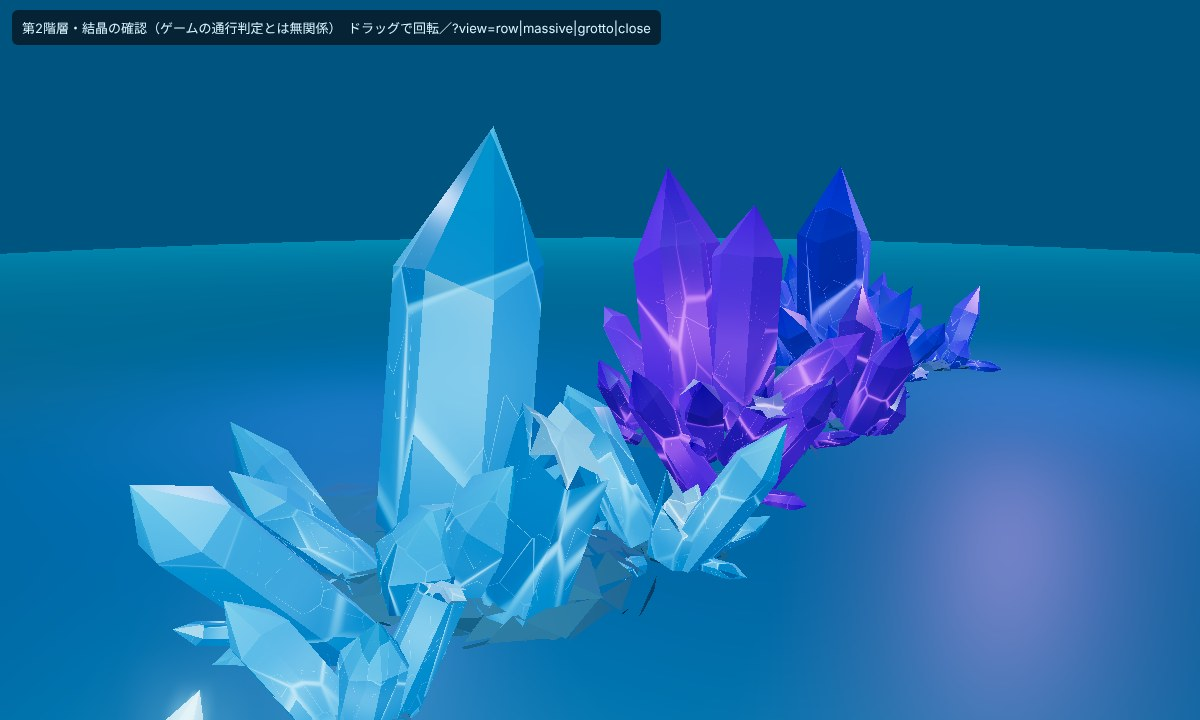
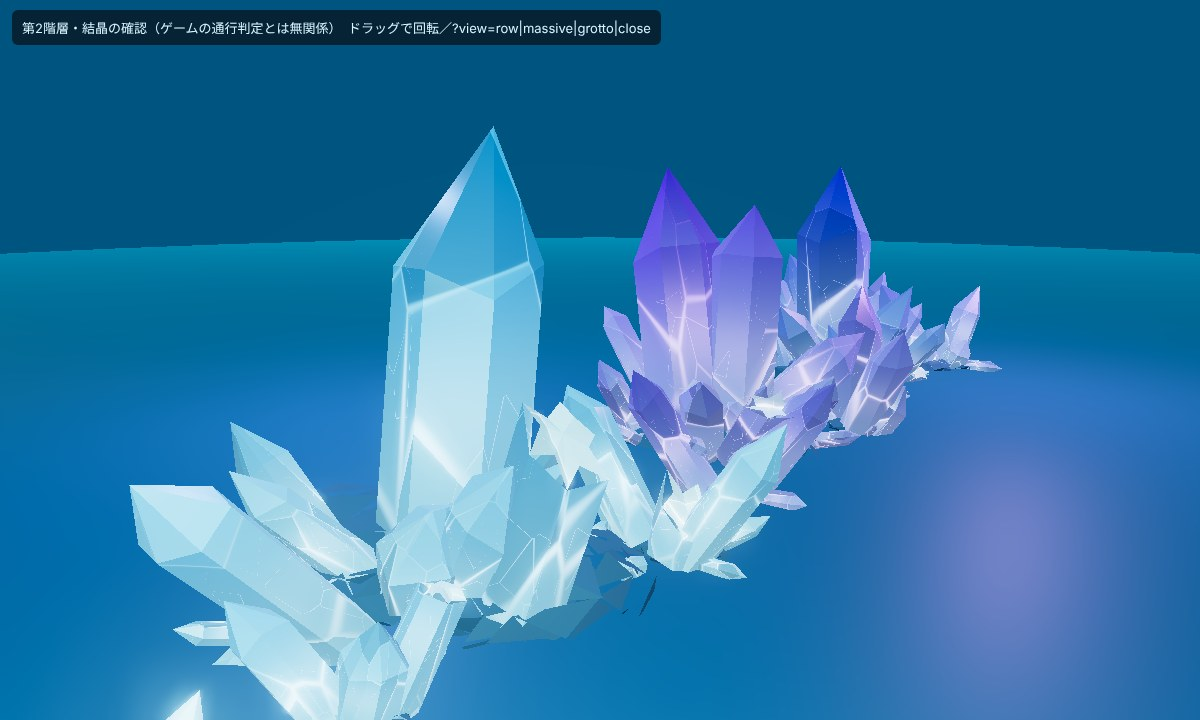
B2: 結晶の色味を選ばれた版（根元の乳白→先端の濃い色）に戻し、ひびは結晶自身の色で控えめに光る
Claude-Session: https://claude.ai/code/session_01B5gNCGmr7UqvVkWBnkLkde

Changed region(s): [[0.0925, 0.2139, 0.8325, 1.0]]

diff --git a/field/b2-crystals.js b/field/b2-crystals.js
@@ -87,15 +87,16 @@ function quartzPoint(T, r, seed, kind, twin) {
 }
 
 // 頂点の色：根元（y の低い所）は乳白、高い所ほど先端の色。割れ口は白寄り、芯は暗めの先端色
-// 頂点の色：塊全体を濃い body 色で塗り、結晶の先端（結晶ごとの高さの上2割）だけ tip 色へ。
-// 割れ口は body を少し明るく。高さは結晶ごとの自分の座標（lpos.y）で見る
-function paint(geo, pal, kind) {
-  const p = geo.attributes.position, L = geo.attributes.lpos, col = new Float32Array(p.count * 3);
-  const body = new THREE.Color(pal.body), tip = new THREE.Color(pal.tip), c = new THREE.Color(), w = new THREE.Color(0xffffff);
+// 頂点の色（ユーザーが選んだ色味）：群晶・塊の根元は乳白、上へ行くほど先端の濃い色。
+// 割れ口は白寄り。高さは群晶全体の高さ（position.y / yMax）で見る
+function paint(geo, pal, kind, yMax) {
+  const p = geo.attributes.position, col = new Float32Array(p.count * 3);
+  const a = new THREE.Color(pal.base), b = new THREE.Color(pal.tip), c = new THREE.Color(), w = new THREE.Color(0xffffff);
   for (let i = 0; i < p.count; i++) {
-    const y = L ? L.getY(i) : p.getY(i), t = THREE.MathUtils.smoothstep(y, 0.78, 0.98);
-    c.copy(body).lerp(tip, t);
-    if (kind === 'fracture') c.lerp(w, 0.18);
+    const t = THREE.MathUtils.clamp(p.getY(i) / yMax, 0, 1);
+    if (kind === 'fracture') c.copy(a).lerp(b, Math.pow(t, 0.7) * 0.5).lerp(w, 0.35);
+    else if (kind === 'cloudy') c.copy(a).lerp(b, 0.3 + Math.pow(t, 0.6) * 0.7);
+    else c.copy(a).lerp(b, 0.4 + Math.pow(t, 0.5) * 0.6);
     col.set([c.r, c.g, c.b], i * 3);
   }
   geo.setAttribute('color', new THREE.BufferAttribute(col, 3));
@@ -181,7 +182,7 @@ export function makeCrystalCluster(seed, paletteName, size = 'large') {
     }
   }
   // 色は群晶全体の高さに対して付ける（根元が乳白、上ほど濃い）
-  for (const k of Object.keys(T.b)) { const g = toGeo(T.b[k], T.l[k]); if (g) out[k].push(paint(g, pal, k)); }
+  for (const k of Object.keys(T.b)) { const g = toGeo(T.b[k], T.l[k]); if (g) out[k].push(paint(g, pal, k, size === 'massive' ? 0.9 : 1.0)); }
   return out;
 }
 
